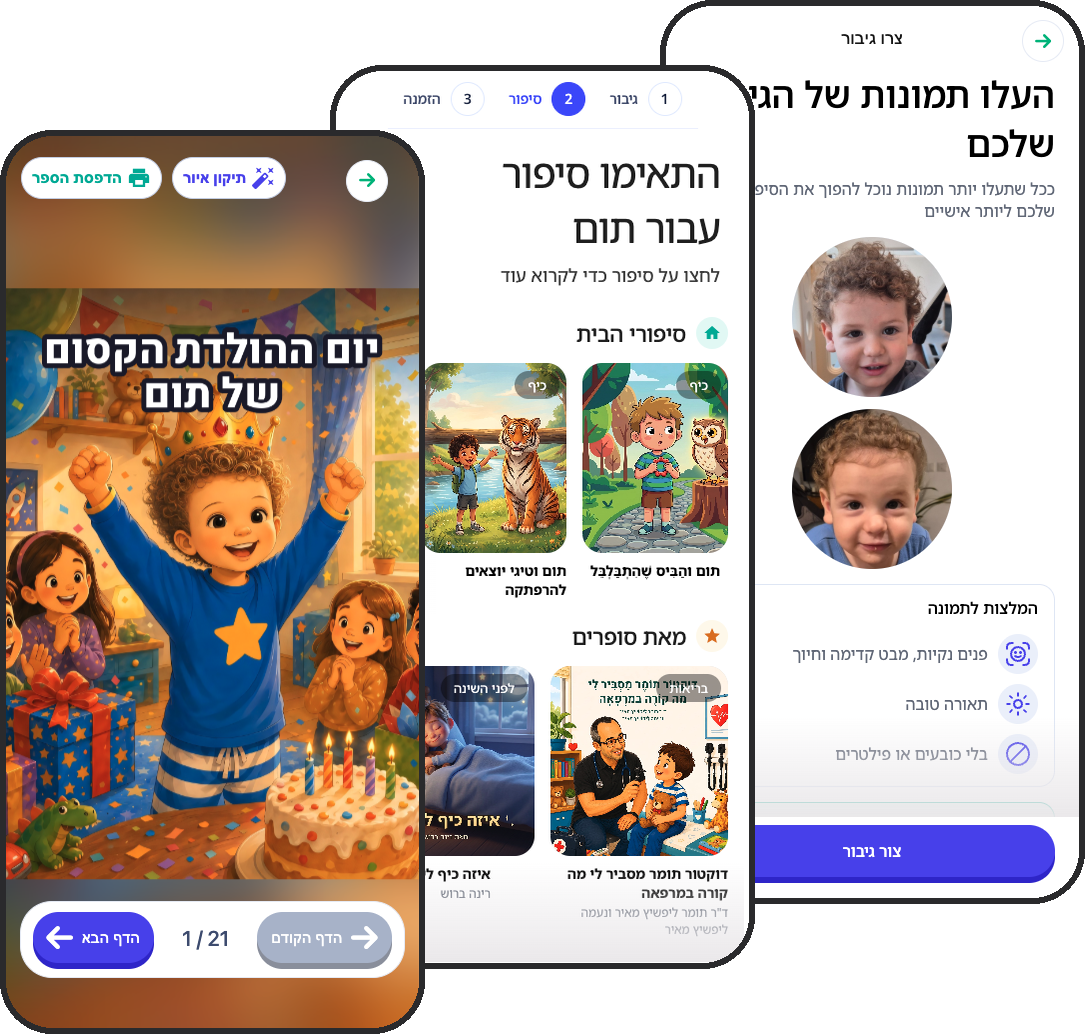
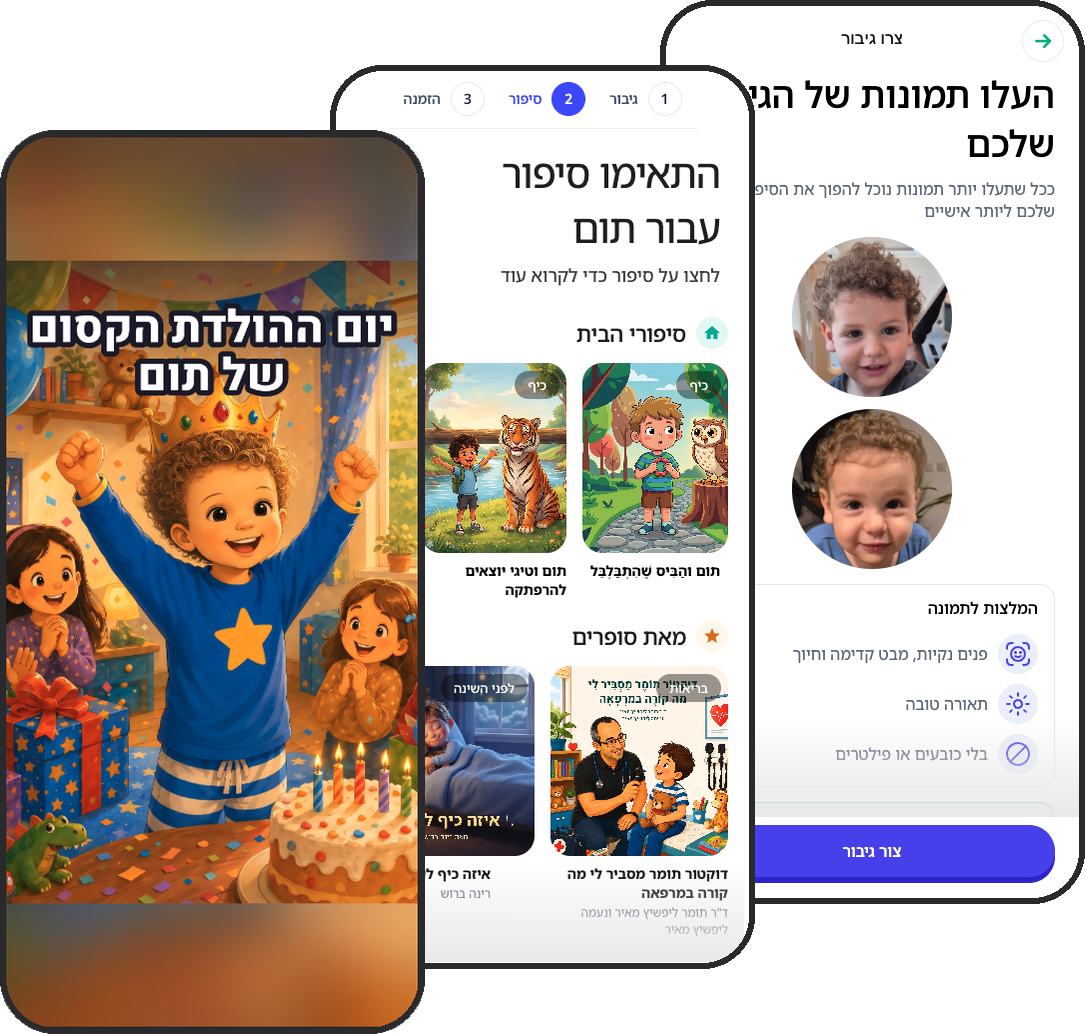
Update hero images in index.html and replace outdated image files for improved visual quality

diff --git a/index.html b/index.html
@@ -88,8 +88,8 @@
             </div>
             <div class="hero-images">
                 <picture>
-                    <source media="(max-width: 899px)" srcset="final-hero4-mobile-compressed.jpg" type="image/jpeg" />
-                    <img class="hero-image" src="final-hero4.jpg" alt="תצוגה מקדימה של אפליקציית TinyTale" />
+                    <source media="(max-width: 899px)" srcset="final-hero5-mobile-compressed.jpg" type="image/jpeg" />
+                    <img class="hero-image" src="final-hero5.jpg" alt="תצוגה מקדימה של אפליקציית TinyTale" />
                 </picture>
             </div>
         </section>
